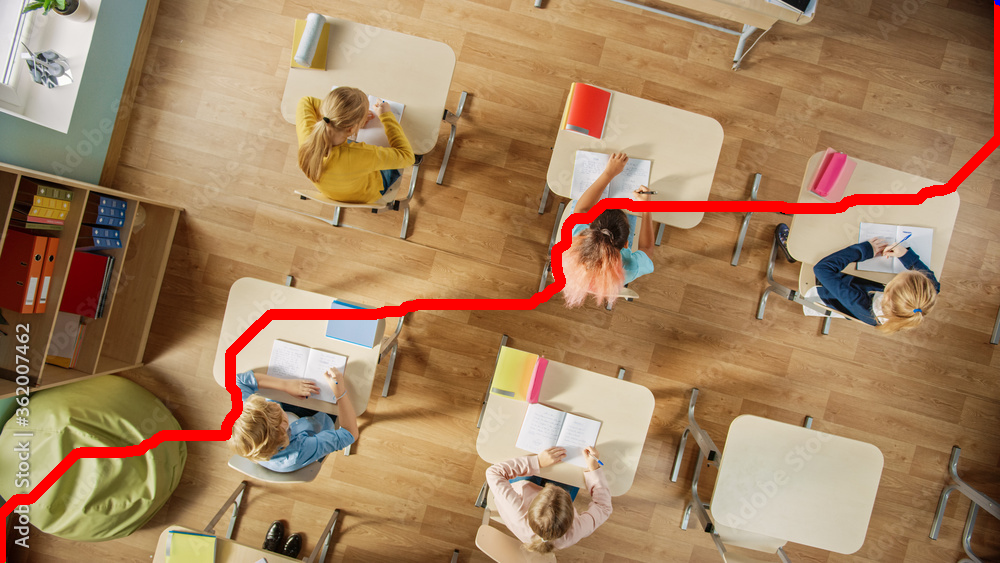
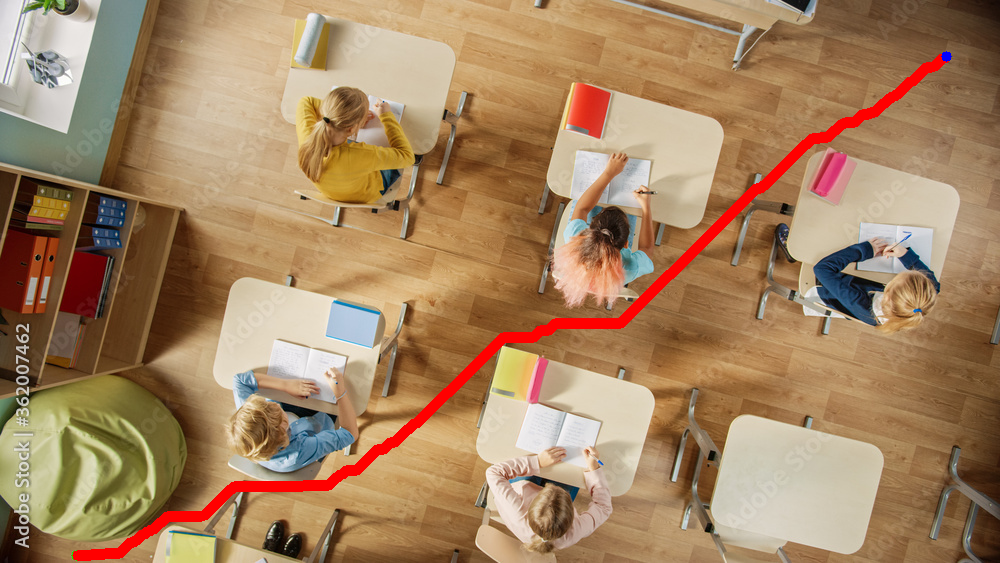
update MiniProject

diff --git a/MiniProject/main.py b/MiniProject/main.py
@@ -17,14 +17,12 @@ def reset_directory(path):
                 os.remove(f)
 
 def compute_gradient(depth_grid):
-    """Optimized gradient computation"""
     grad_y, grad_x = np.gradient(depth_grid)
-    return np.hypot(grad_x, grad_y)  # Faster than sqrt(x²+y²)
+    return np.hypot(grad_x, grad_y)
 
 def compute_potential_field(depth_grid, goal, obstacle_weight=2.0, goal_weight=2.0, 
                           sigma_obstacle=1, sigma_goal=3, slope_weight=2.0,
                           max_slope_threshold=0.5):
-    """Enhanced potential field computation prioritizing path quality"""
     depth_min, depth_max = depth_grid.min(), depth_grid.max()
     depth_normalized = (depth_grid - depth_min) / (depth_max - depth_min + 1e-6)
     
@@ -57,26 +55,28 @@ def is_valid_move(depth_grid, pos):
     rows, cols = depth_grid.shape
     return (0 <= pos[0] < rows and 0 <= pos[1] < cols)
 
-def heuristic(node, goal):
-    """Modified heuristic with reduced influence"""
-    dx = node[0] - goal[0]
-    dy = node[1] - goal[1]
-    # Using Manhattan distance component to encourage more gradual paths
-    return 0.5 * (np.hypot(dx, dy) + abs(dx) + abs(dy))
+def heuristic(depth_grid,node, goal):
+    dx, dy = node[0] - goal[0], node[1] - goal[1]
+    depth_diff = abs(depth_grid[node] - depth_grid[goal])
+    return np.hypot(dx, dy) + 5.0 * depth_diff
 
 def a_star_with_potential(depth_grid, start, goal, max_iterations=50000000):
-    """Modified A* implementation prioritizing path quality"""
     if not (is_valid_move(depth_grid, start) and is_valid_move(depth_grid, goal)):
         return None
     
     print(f"\nStarting A* search from {start} to {goal}")
     print(f"Depth grid shape: {depth_grid.shape}")
     print(f"Depth grid range: {depth_grid.min():.3f} to {depth_grid.max():.3f}")
+
+    # cv2.imshow("depth_grid",depth_grid)
+    # cv2.waitKey(0)
     
     potential_field = compute_potential_field(depth_grid, goal)
-    cv2.imwrite("E:/MIT_SEM4_AI_LAB/MiniProject/Samples/1/depth_pot_field.webp", potential_field)
+    # cv2.imshow("potential field",potential_field)
+    # cv2.waitKey(0)
     slope_field = compute_gradient(depth_grid)
-    cv2.imwrite("E:/MIT_SEM4_AI_LAB/MiniProject/Samples/1/depth_slope_field.webp", slope_field)
+    # cv2.imshow("slope_field",slope_field)
+    # cv2.waitKey(0)
 
     
     rows, cols = depth_grid.shape
@@ -84,8 +84,7 @@ def a_star_with_potential(depth_grid, start, goal, max_iterations=50000000):
     open_set.put((0, start))
     came_from = {start: None}
     cost_so_far = {start: 0}
-    
-    # Pre-compute movement patterns with diagonal cost adjustment
+
     movements = [(0, 1), (1, 0), (0, -1), (-1, 0), 
                 (1, 1), (1, -1), (-1, 1), (-1, -1)]
     movement_costs = [np.sqrt(dx*dx + dy*dy) * (1.2 if dx and dy else 1.0) 
@@ -119,21 +118,27 @@ def a_star_with_potential(depth_grid, start, goal, max_iterations=50000000):
             slope_val = slope_field[neighbor]
             depth_val = depth_grid[neighbor]
             potential_val = potential_field[neighbor]
+
+            if slope_val > 0.7 or potential_val > 0.9:  # Skip invalid nodes early
+                continue
+
+            depth_change_penalty = abs(depth_val - depth_grid[current])
             
             # Increased weights for terrain factors
             terrain_cost = (
-                6.0 * slope_val +  # slope penalty
-                15.0 * (1.0 - depth_val) +  # depth penalty
-                2.0 * max(0, potential_val)  # potential field penalty
+                30.0 * slope_val +  # slope penalty 30
+                0.01 * (1.0 - depth_val) +  # depth penalty
+                0.01 * max(0, potential_val) +  # potential field penalty
+                15 * depth_change_penalty   # New penalty for depth variation 15
             )
             
             total_cost = base_cost * (1.0 + terrain_cost)
-            
-            new_cost = cost_so_far[current] + total_cost
+            depth_diff = abs(depth_grid[new_row, new_col] - depth_grid[current_row, current_col])
+            new_cost = cost_so_far[current] + base_cost * (1.0 + terrain_cost + 10.0 * depth_diff)
             
             if neighbor not in cost_so_far or new_cost < cost_so_far[neighbor]:
                 cost_so_far[neighbor] = new_cost
-                priority = new_cost + 0.5 * heuristic(neighbor, goal)
+                priority = new_cost + 0.5 * heuristic(depth_grid, neighbor, goal)
                 open_set.put((priority, neighbor))
                 came_from[neighbor] = current
     
@@ -223,13 +228,22 @@ def visualize_path(image, proc_depth, path, f_name):
     print(f"Saved path visualization to {f_name}")
 
 def main():
-
-    rgb_path = "E:/MIT_SEM4_AI_LAB/MiniProject/Samples/1/image_rgb.jpg"
-    depth_path = "E:/MIT_SEM4_AI_LAB/MiniProject/Samples/1/image_depth.webp"
-    proc_depth_path = "E:/MIT_SEM4_AI_LAB/MiniProject/Samples/1/image_depth.webp"
-    output_path = "E:/MIT_SEM4_AI_LAB/MiniProject/Samples/1/image_rgb_proc.webp"
-    coords = [[0,562],[999,0]]
-    process_image(rgb_path, depth_path, proc_depth_path, coords, output_path)
+    file_no = 7
+    rgb_path = f"E:/MIT_SEM4_AI_LAB/MiniProject/Samples/{file_no}/image_rgb.jpg"
+    depth_path = f"E:/MIT_SEM4_AI_LAB/MiniProject/Samples/{file_no}/image_depth.webp"
+    proc_depth_path = f"E:/MIT_SEM4_AI_LAB/MiniProject/Samples/{file_no}/image_depth.webp"
+    output_path = f"E:/MIT_SEM4_AI_LAB/MiniProject/Samples/{file_no}/image_rgb_proc.webp"
+    points = []
+    def click_event(event, x, y, flags, param):
+        if event == cv2.EVENT_LBUTTONDOWN:
+            points.append((x, y))
+            if len(points) == 2:
+                cv2.destroyAllWindows()
+    img = cv2.imread(rgb_path)
+    cv2.imshow("Select Start, Goal", img)
+    cv2.setMouseCallback("Select Start, Goal", click_event)
+    cv2.waitKey(0)
+    process_image(rgb_path, depth_path, proc_depth_path, points, output_path)
 
 if __name__ == "__main__":
     main()
